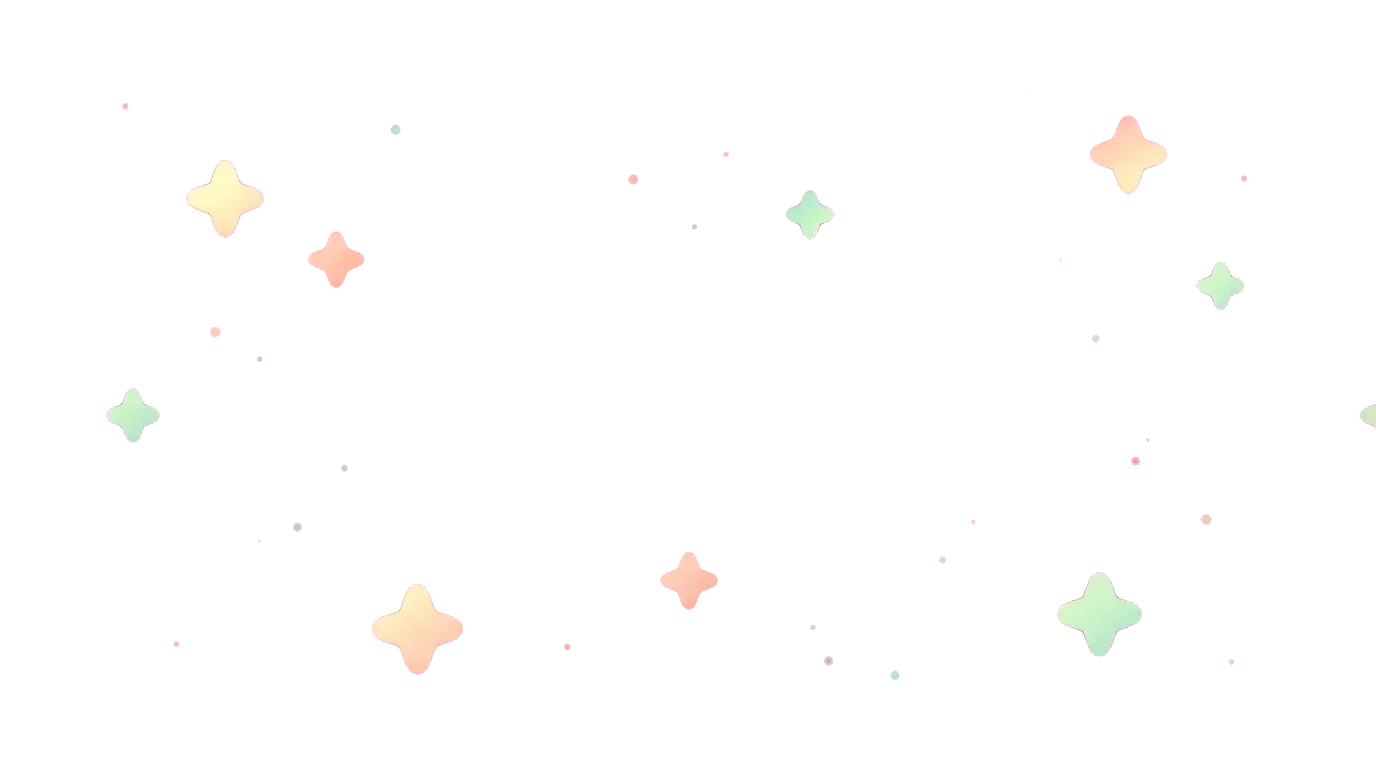
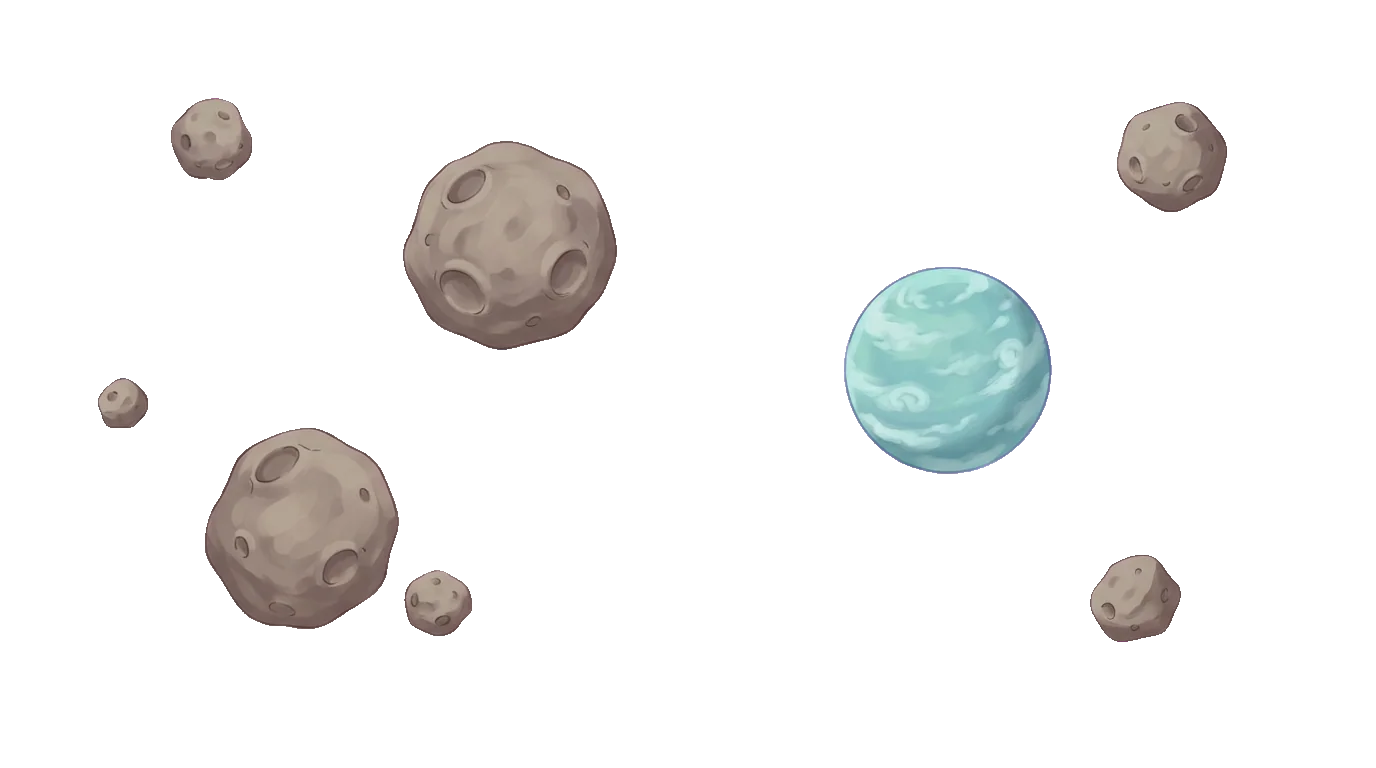
feat(backgrounds): anime-style space, opaque space layers, stars from a black sky
Claude-Session: https://claude.ai/code/session_01HLbsMSck39H7z7RfpRFnT8

diff --git a/src/gfx/draw.ts b/src/gfx/draw.ts
@@ -188,8 +188,6 @@ export function drawBackground(g: G, world: string, vw: number, scroll: number, 
     g.fillStyle = 'rgba(24,18,60,0.35)';
     g.fillRect(0, 0, vw, VH);
   }
-  g.save();
-  if (world === 'space') g.globalAlpha = 0.4;
   const mid = sprite(`bg-${world}-mid`);
   if (mid) tiled(g, mid, vw, motion ? scroll * 0.35 : 0);
   else {
@@ -202,7 +200,6 @@ export function drawBackground(g: G, world: string, vw: number, scroll: number, 
     hills(g, vw, scroll, VH * 0.82, 30, pal.hills[1]);
     if (world === 'rescue') lookoutFlag(g, vw, motion ? scroll : 0, pal.hills[1], pal.accent);
   }
-  g.restore();
 }
 
 /** `x` of each copy of a scene element that repeats every `every` units, shifted by `offset`, on the stage. */

diff --git a/assets-src/PROMPTS.md b/assets-src/PROMPTS.md
@@ -326,6 +326,10 @@ saved as `assets-src/bg-<world>-<layer>.png` and processed by `npm run assets`.
    Pick the best, `prep` it, then join the middle without Gemini: `quilt <dir> <donor> <out>`
    fills the gap with the best fitting piece of another strip of the same sheet. Gemini's
    seam repaint (as for far) is the fallback; on strips it often redrew the whole picture.
+   Stars and other small scattered things come out in neat groups on magenta (a sticker
+   sheet). Ask for them on black ("a natural star field like a real photograph"); `black <img>
+   <out> [floor]` turns brightness into coverage on magenta and takes out stars at the side
+   edges, so the layer repeats as it is (space mid: floor 120 keeps the brighter stars).
 3. `lift <img> <px> <out>` moves the mid strip up when the near layer hides too much of it
    (meadow: 130 px); its bottom must stay below the top of the near layer's solid grass.
 4. Copy the three layers to `assets-src/bg-<world>-{far,mid,near}.png`, run

diff --git a/.todo/64-world-backgrounds.md b/.todo/64-world-backgrounds.md
@@ -32,7 +32,7 @@ far as a night sky scene, mid and near as sparse star layers on magenta, no stri
 - [x] Tool `scripts/bg-seam.mjs`, prompts and procedure in PROMPTS.md
 - [x] No cross-fade in the game (`src/gfx/draw.ts`)
 - [x] meadow (far, mid lifted 130 px, near), checked in the game
-- [ ] space
+- [x] space (far with nebula, mid: a star field drawn on black turned into coverage, stars at the side edges removed; near: asteroids and a planet; the game no longer draws them at 40 %)
 - [ ] planet
 - [ ] dragons
 - [ ] egg
